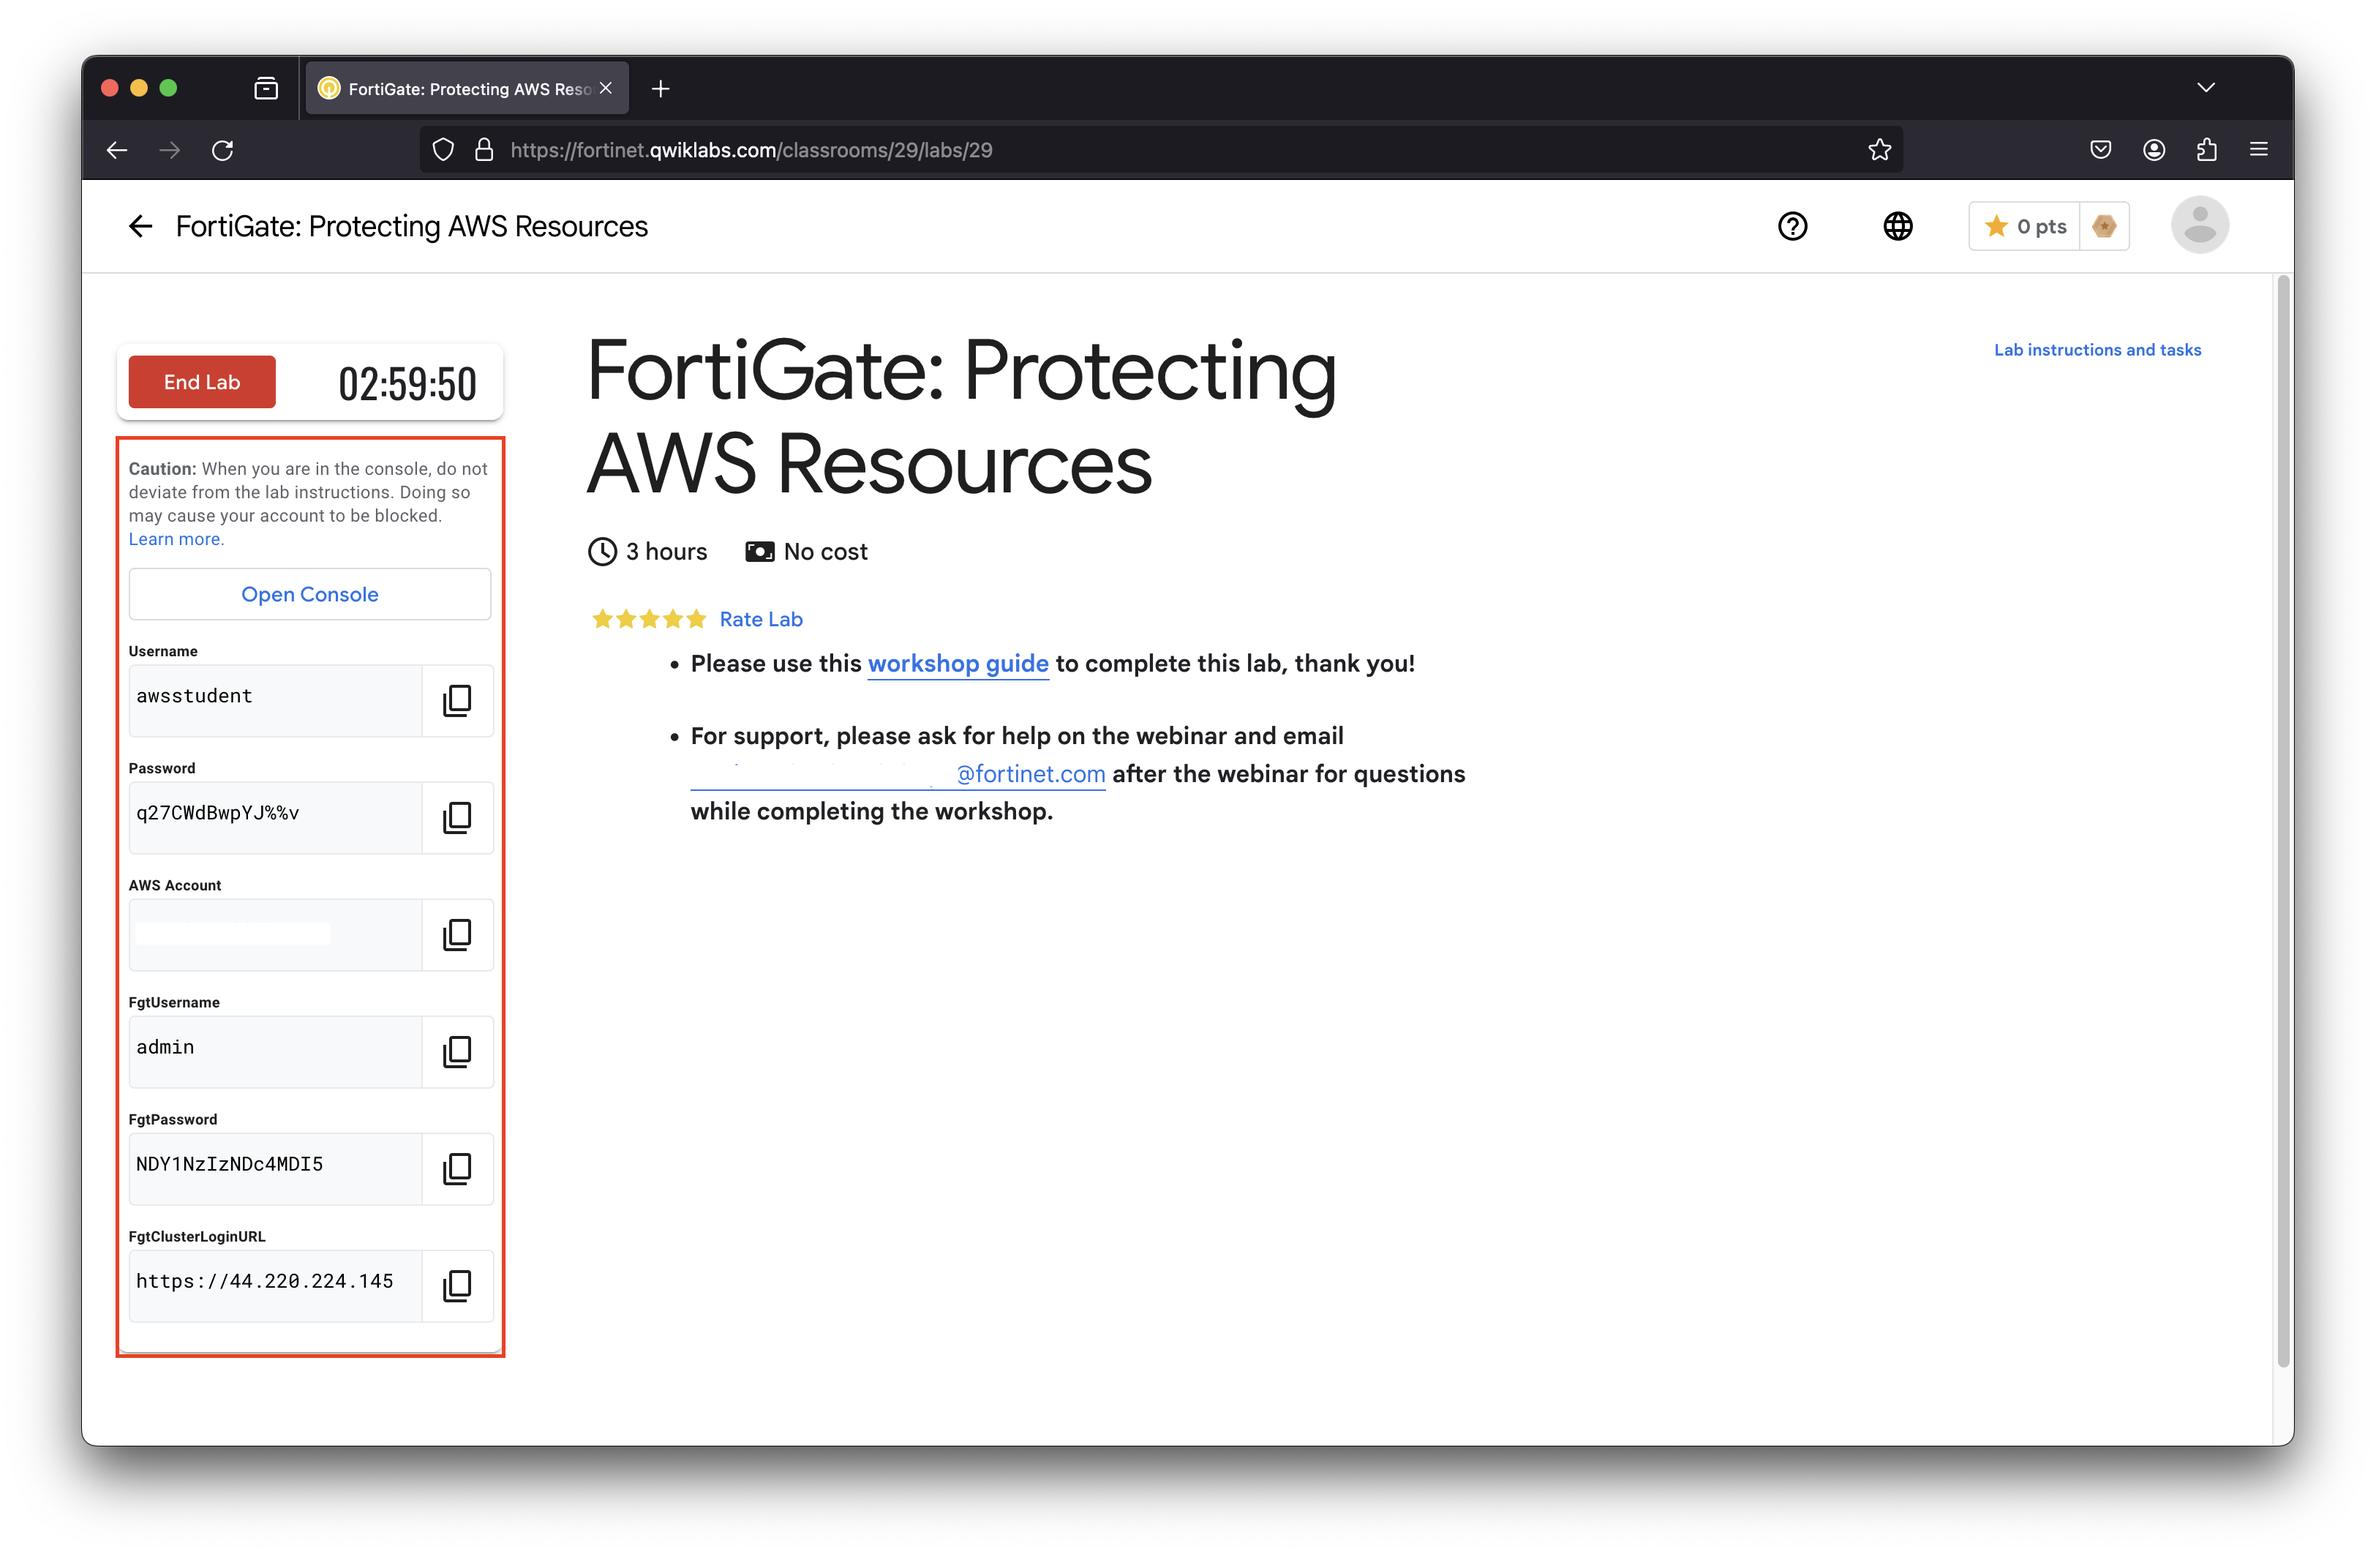
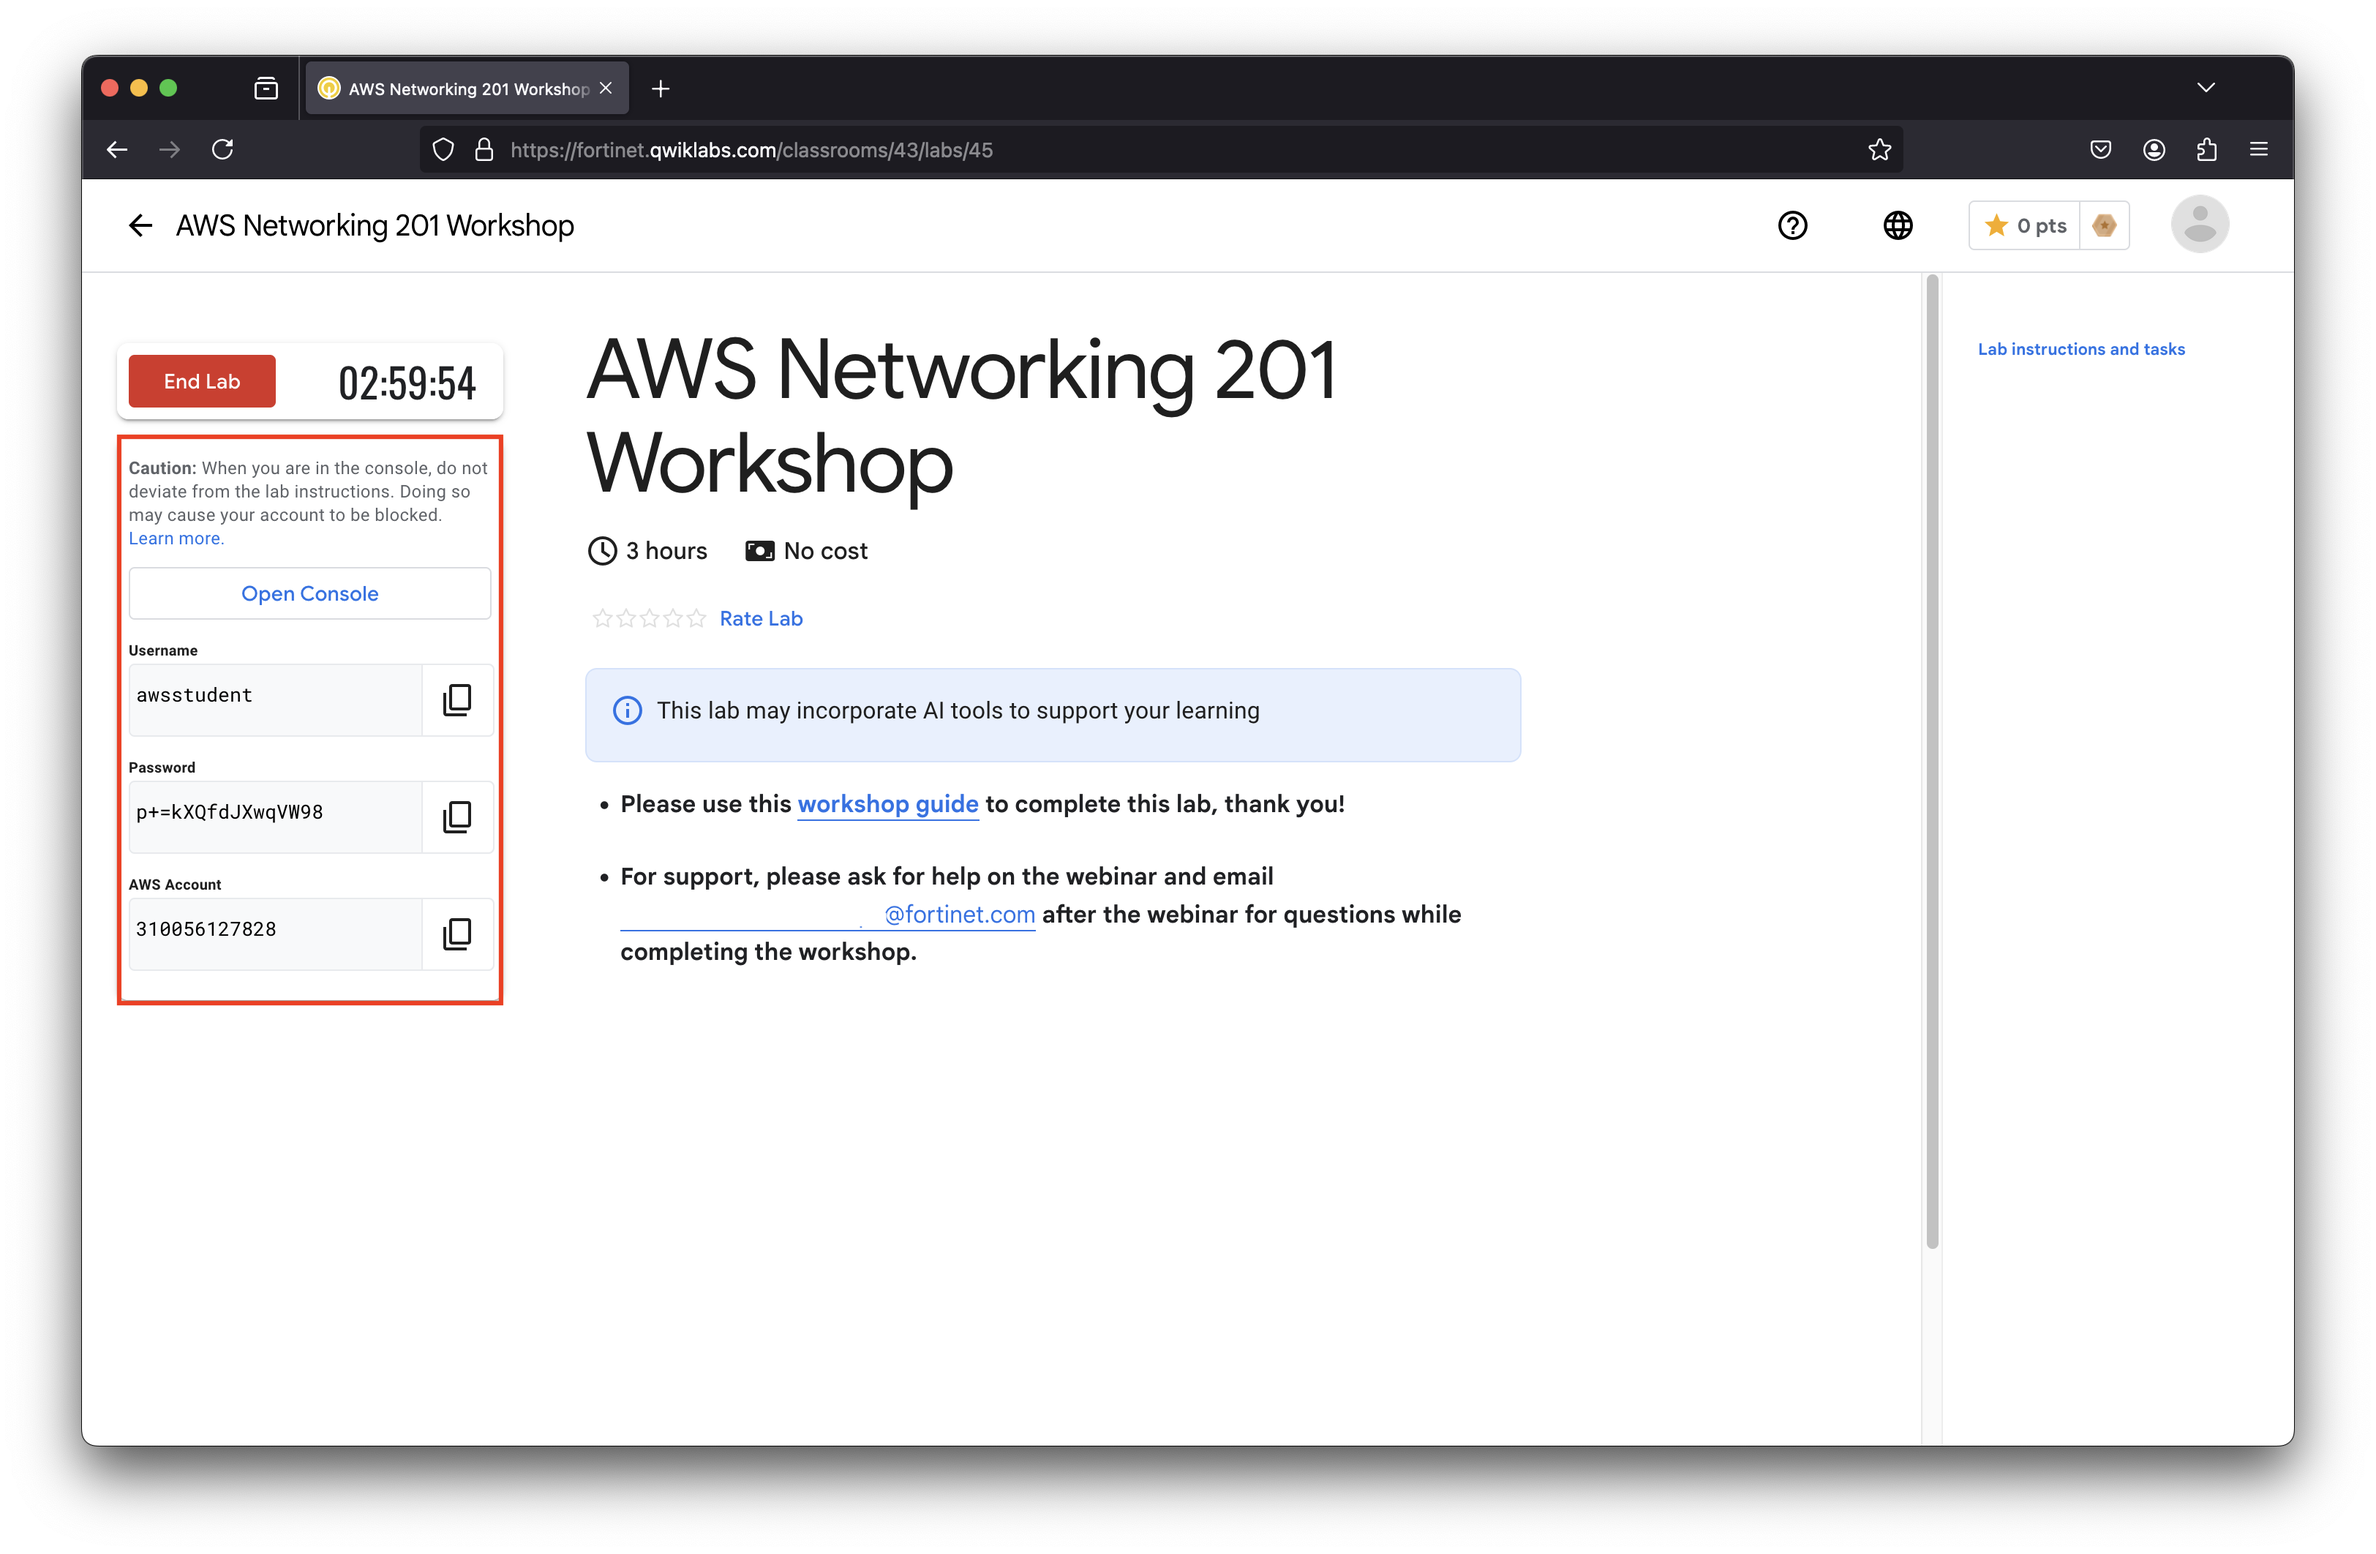
minor tweaks

diff --git a/content/2_moduletwo/21_logistics.md b/content/2_moduletwo/21_logistics.md
@@ -19,13 +19,13 @@ After submitting, this page will return with a blank email address box and no ot
 For Fortinet cloud workshops, we will use [**QwikLabs**](https://fortinet.qwiklabs.com/paths) to provide a pre-staged AWS account with the workshop environment ready to use.
 
 - After logging into [**QwikLabs**](https://fortinet.qwiklabs.com/paths), click **Dashboard** (top of page).
-- Find and select **FortiGate: Protecting AWS Resources**.
+- Find and select **FortiGate: AWS Networking 201 Workshop**.
 - Click the green **Start Lab** button to begin.
 
 {{% notice warning %}}
 Provisioning the lab can take more than 15 minutes once started. This environment will then run for 3 hours and then automatically shutdown and clean up all resources. If you restart the lab, you will start with a clean environment where you must begin at the beginning again.
 {{% /notice %}}
 
-Once the environment has finished provisioning, check the QwikLabs Console left menu (see screenshot below) to find your AWS login URL and credentials, along with other useful information you will need throughout your lab. You may now procede to the [hands-on section of the lab]({{< relref "3_modulethree/_index.md" >}}).
+Once the environment has finished provisioning, check the QwikLabs Console left menu (see screenshot below) to find your AWS login URL and credentials, along with other useful information you will need throughout your lab. You may now procede to the [**hands-on section of the lab**]({{< relref "3_modulethree/_index.md" >}}).
 
 ![](image-ql1.png)

diff --git a/content/2_moduletwo/_index.md b/content/2_moduletwo/_index.md
@@ -3,7 +3,7 @@ title: "QuickStart & FAQ"
 weight: 2
 ---
 
-This section contains a few quick tips and tricks to help you get started on this workshop. See the quick links below to jump straight into it, otherwise navigate to the [workshop logisitics](2_moduletwo/21_logisitics.html) section to begin.
+This section contains a few quick tips and tricks to help you get started on this workshop. See the quick links below to jump straight into it, otherwise navigate to the [**workshop logisitics**](2_moduletwo/21_logisitics.html) section to begin.
 
 ### Quick Links
 - [**Qwiklabs account**](https://fortinet.qwiklabs.com/paths)
